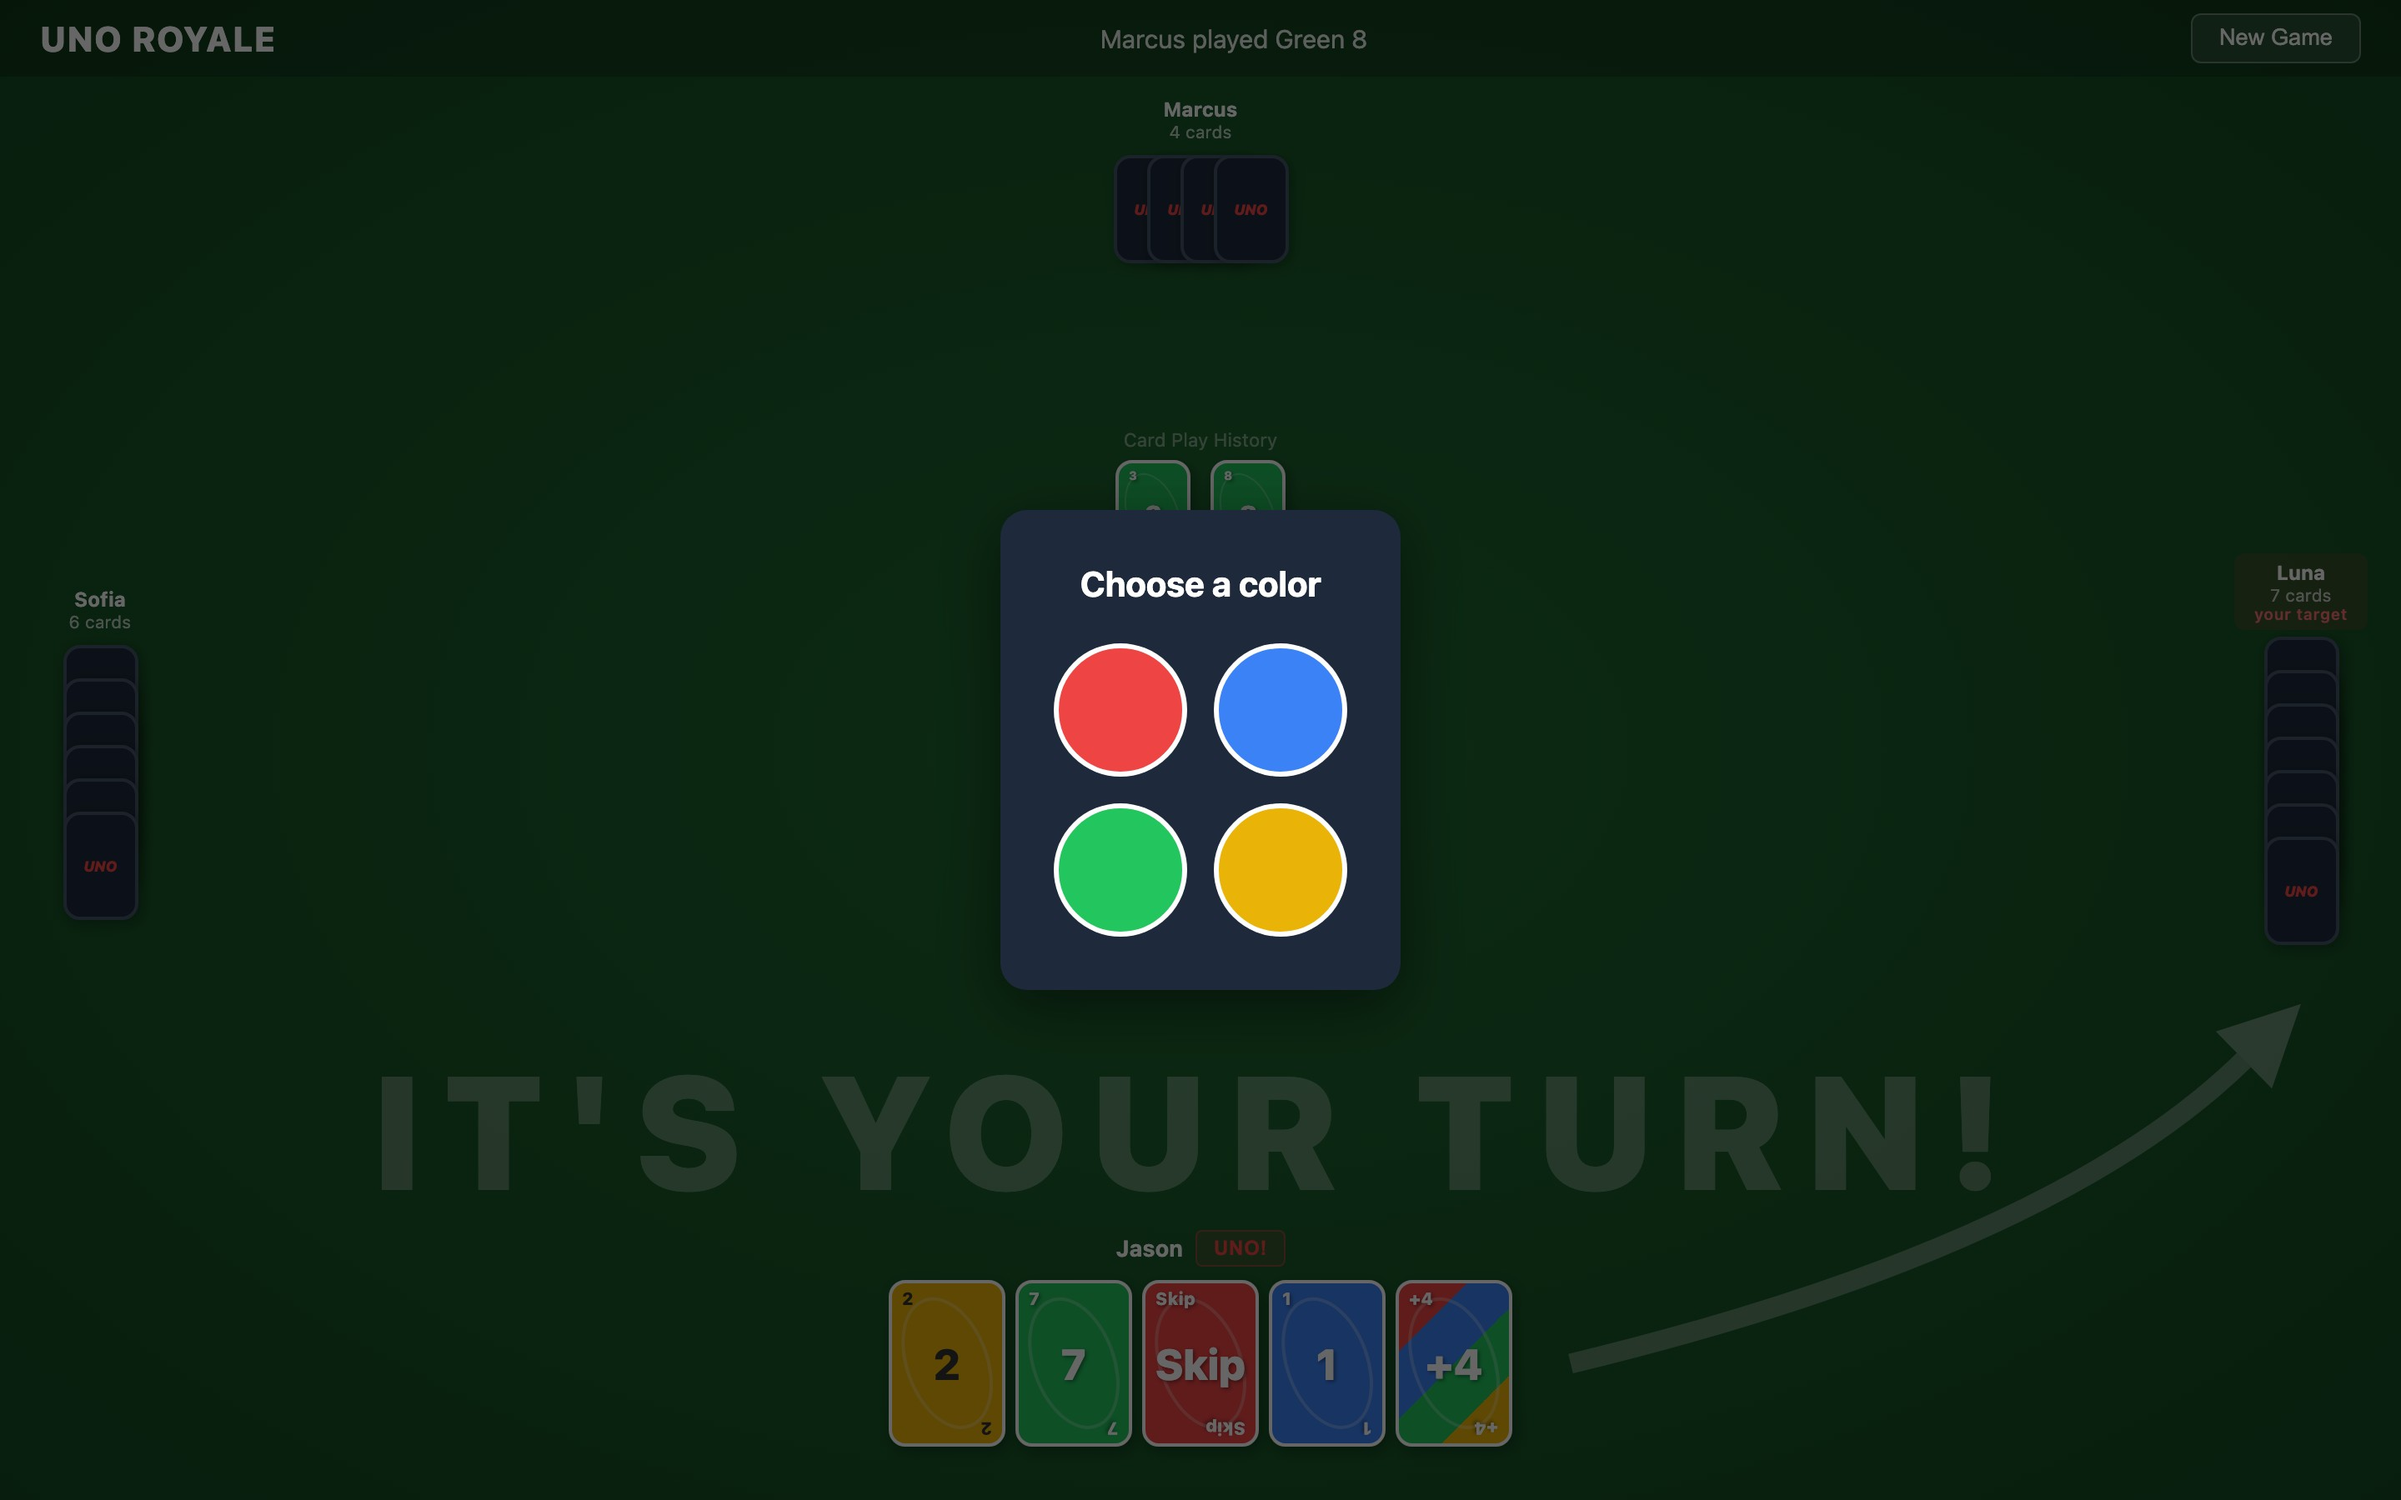
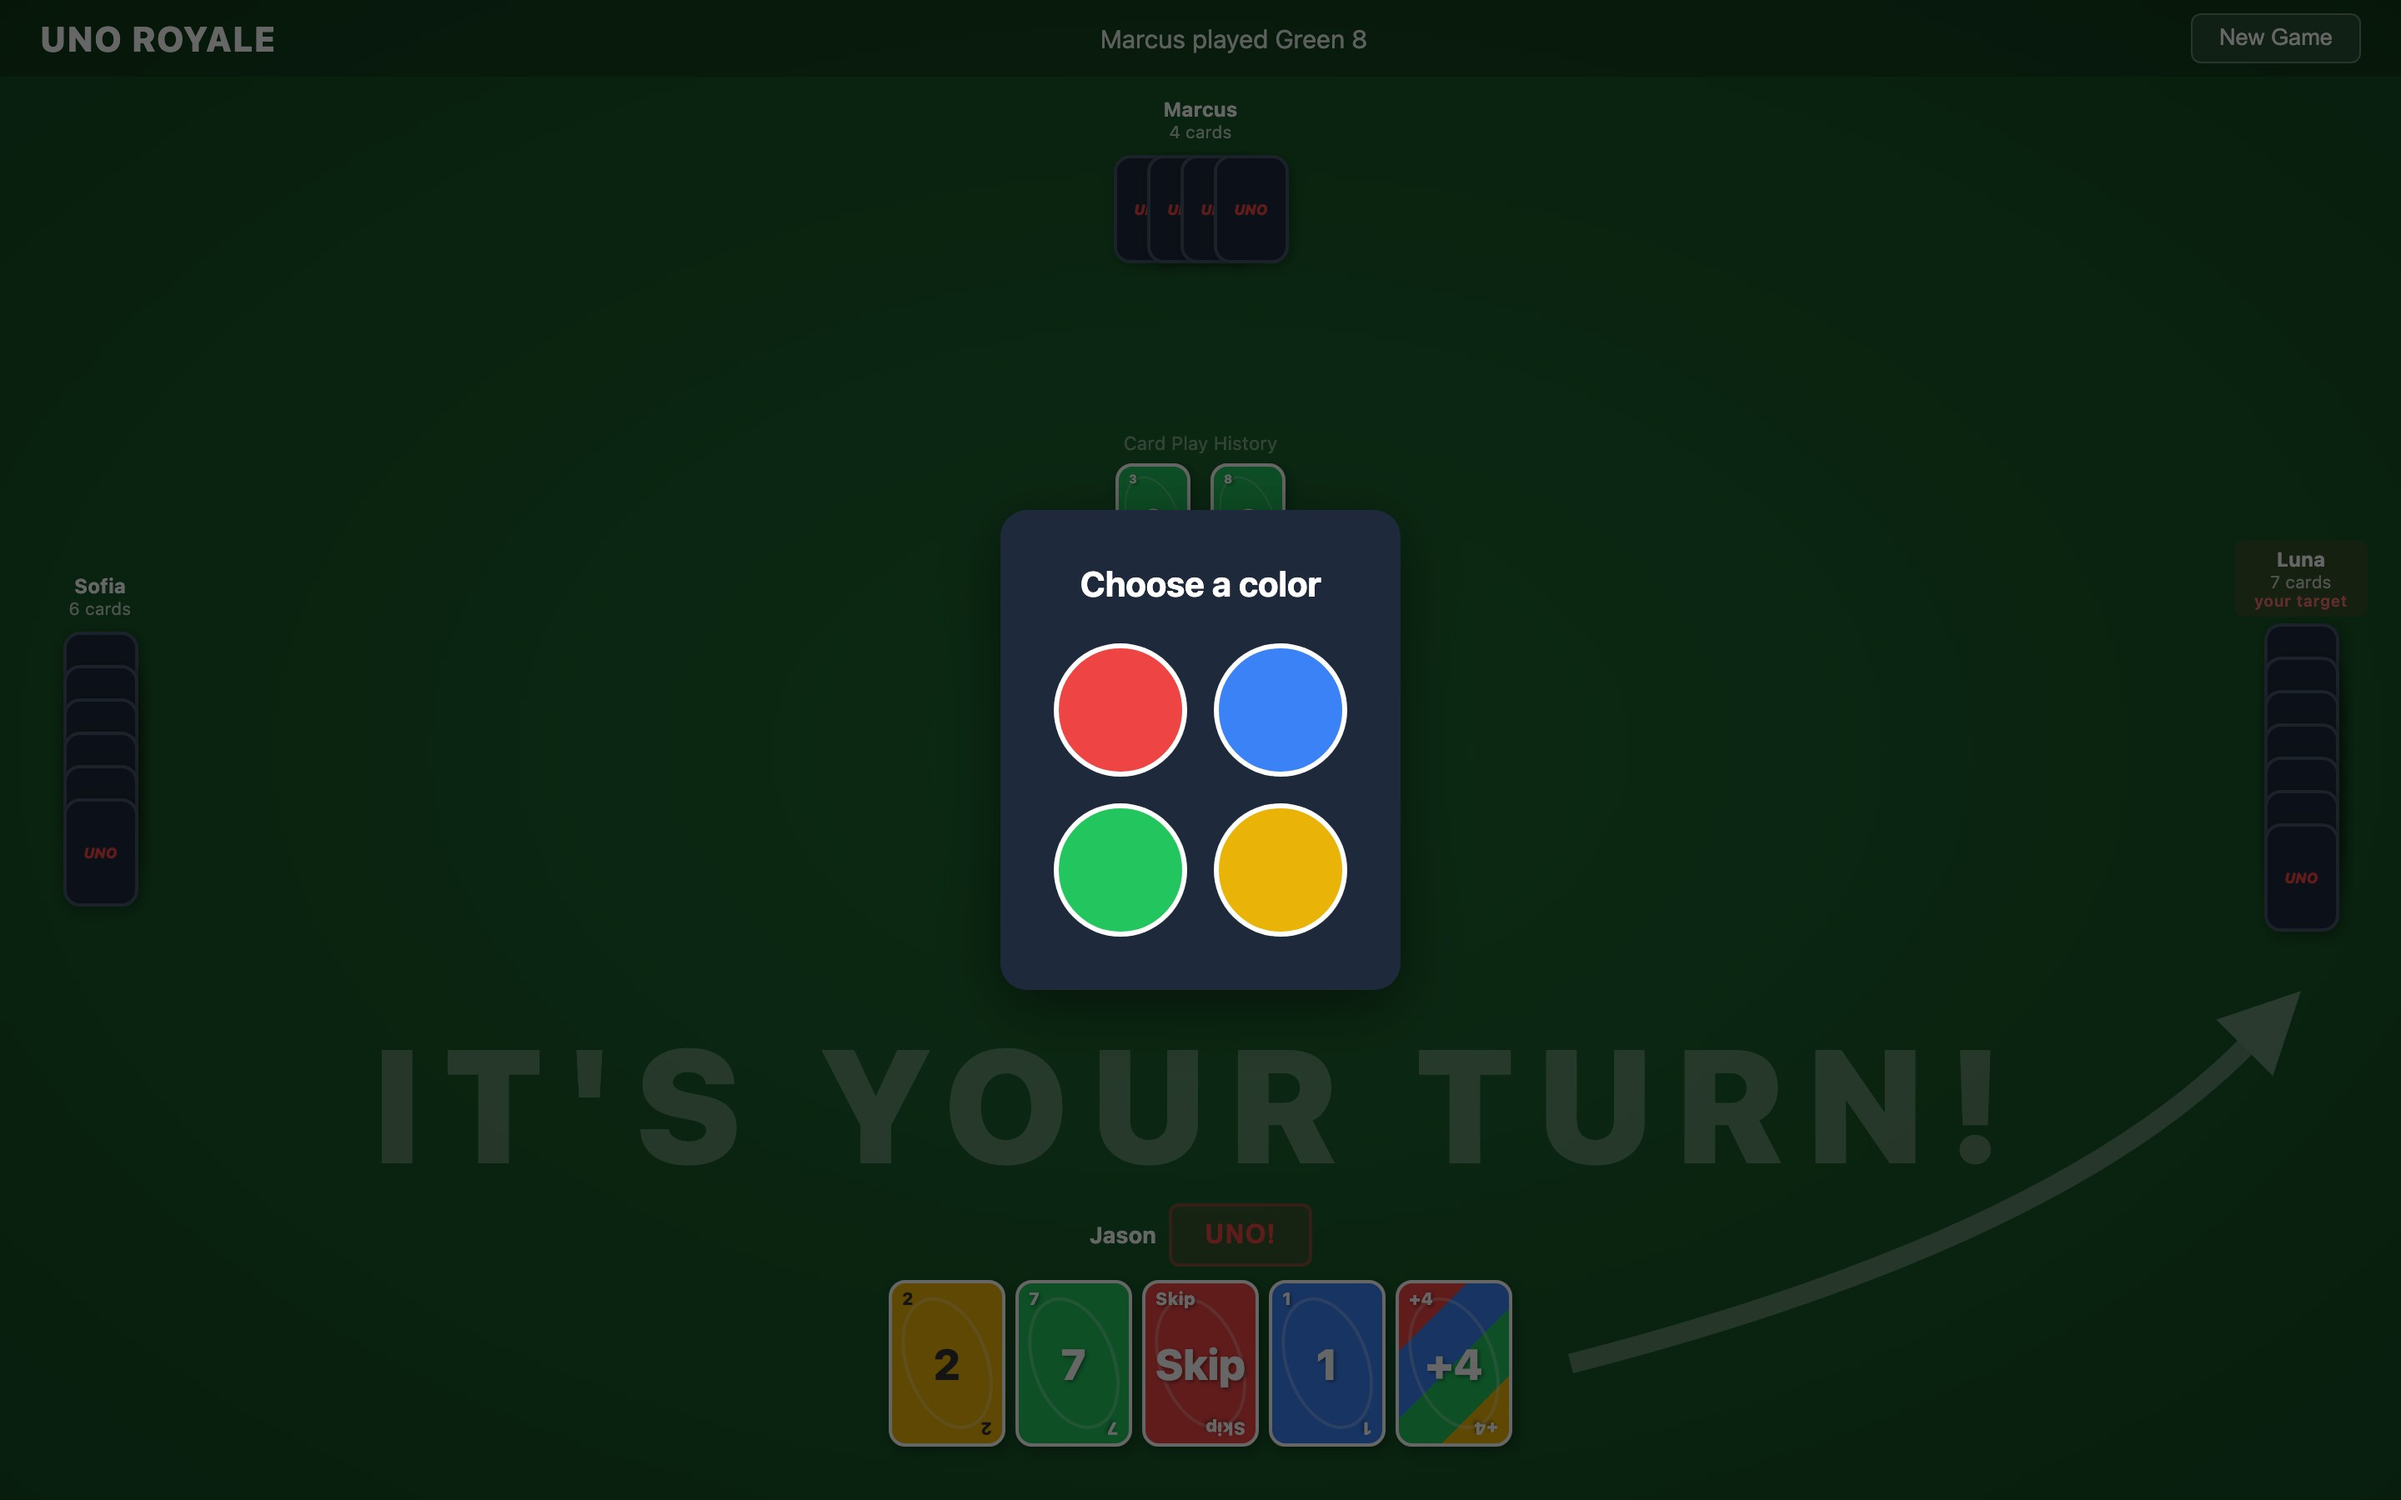
Remove draw pile label, enlarge UNO button

diff --git a/src/style.css b/src/style.css
@@ -629,12 +629,12 @@ body {
 
 /* ---- UNO Button ---- */
 .uno-btn {
-  padding: 0.2rem 0.6rem;
-  border-radius: 4px;
-  border: 1px solid rgba(239, 68, 68, 0.4);
+  padding: 0.5rem 1.2rem;
+  border-radius: 6px;
+  border: 2px solid rgba(239, 68, 68, 0.4);
   background: rgba(239, 68, 68, 0.15);
   color: #ef4444;
-  font-size: 0.75rem;
+  font-size: 1rem;
   font-weight: 700;
   text-transform: uppercase;
   cursor: pointer;

diff --git a/src/components/GameBoard.vue b/src/components/GameBoard.vue
@@ -732,7 +732,6 @@ function onDrop(e: DragEvent) {
           <div class="card card--back card--large">
             <span class="card__uno-text">UNO</span>
           </div>
-          <span class="draw-pile__label">Draw</span>
         </div>
 
         <div class="discard-area">
